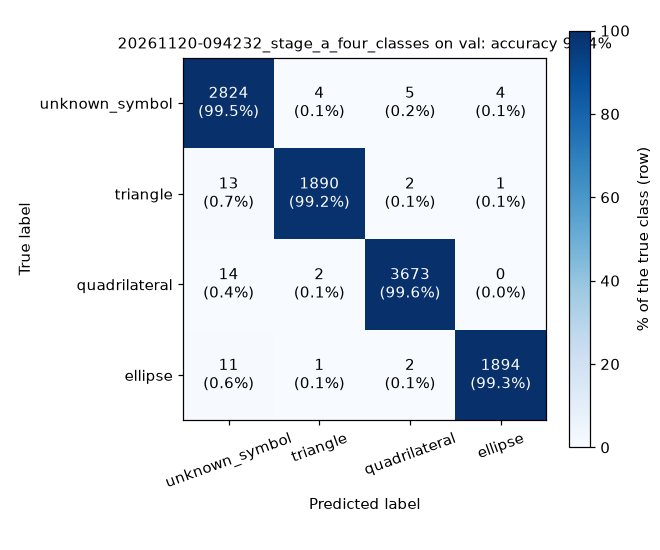
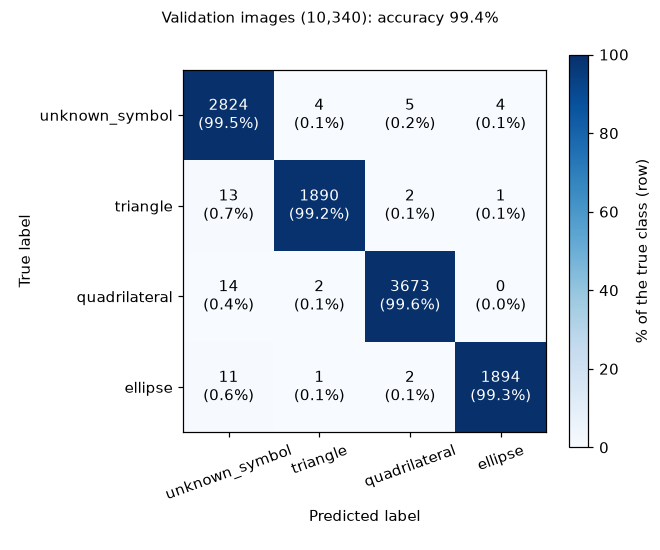
README: training charts from TensorBoard, plus two plot layout fixes
Adds the reward convergence graph, loss/accuracy curves, learning curve,
an augmented training batch and the most-confident-mistakes gallery to
the Results section, each with a plain-English explanation. Confusion
matrix title no longer runs into the color bar; learning-curve labels no
longer overlap the lines.

diff --git a/src/symbolcnn/plots.py b/src/symbolcnn/plots.py
@@ -62,7 +62,7 @@ def confusion_matrix_figure(counts: np.ndarray, percents: np.ndarray, classes: l
             color = "white" if percents[row, col] > 60 else "black"   # readable on dark cells
             axis.text(col, row, f"{counts[row, col]}\n({percents[row, col]:.1f}%)",
                       ha="center", va="center", color=color, fontsize=10)
-    axis.set_title(title, fontsize=10)
+    figure.suptitle(title, fontsize=10)   # spans the whole figure, so it never runs into the color bar
     figure.tight_layout()
     return figure
 
@@ -124,9 +124,10 @@ def learning_curve_figure(table, split: str):
     axis.plot(x, table["accuracy"] * 100, marker="o", label="accuracy %")
     axis.plot(x, table["reward_percent_of_max"], marker="s", label="reward % of max")
     for images, accuracy, fraction in zip(x, table["accuracy"] * 100, table["fraction"]):
-        axis.annotate(f"{fraction:.0%}", (images, accuracy), textcoords="offset points", xytext=(0, 8),
+        axis.annotate(f"{fraction:.0%}", (images, accuracy), textcoords="offset points", xytext=(0, -15),
                       ha="center", fontsize=8)
     axis.axhline(90, linestyle="--", color="gray", label="90% target")
+    axis.set_ylim(top=min(100.5, max(table["accuracy"].max() * 100, table["reward_percent_of_max"].max()) + 0.6))
     axis.set_xscale("log")      # 10% -> 100% is a 10x jump, so a log scale spaces the points evenly
     axis.set_xlabel("Training images (log scale)")
     axis.set_ylabel("%")

diff --git a/README.md b/README.md
@@ -30,6 +30,30 @@ It is "Step 2" of a two-step idea: Step 1 finds a mark, Step 2 (this CNN) names 
 
 Left to right: the confusion matrix on validation images; the phone app reading a hand-drawn triangle; and a current weakness. A real round object (a bottle bottom held in a hand) comes out as **unknown**, because training so far used only drawings and silhouettes. These numbers are on public drawings. The honest **test** score comes from our own photos, which we're collecting next (Stage B). More plots: [`results/lesson36/`](results/lesson36/).
 
+### Training charts
+
+The same charts TensorBoard shows live during training (`tensorboard --logdir runs`), saved as pictures.
+
+**Reward convergence.** The average reward per validation image after each epoch (one full pass over the training images), scored with our reward rubric. The dashed line is the best possible score. The dotted line marks where the whole network starts learning ("finetune"); before that, only the new final layer learns. It climbs quickly, then levels off just under the maximum.
+
+<img src="results/lesson36/reward_convergence.png" alt="Reward convergence graph" width="620">
+
+**Loss and accuracy, training vs validation.** Loss measures how wrong the guesses are (lower is better). The training and validation lines stay close together, so the model is learning general shapes rather than memorizing its training images ("overfitting"). Validation scores slightly higher than training because training images are deliberately distorted (below), which makes them harder.
+
+<img src="results/lesson36/training_curves.png" alt="Loss and accuracy per epoch" width="820">
+
+**Learning curve.** Accuracy and reward when training on 10%, 25%, 50% and 100% of the training images. Every size clears the 90% target; past 50%, more drawings of the same kind barely help.
+
+<img src="results/lesson36/learning_curve_val.png" alt="Learning curve" width="620">
+
+**What the model sees.** One real training batch. Each image is randomly rotated, tilted, blurred, given noise, made thicker or thinner, or partly covered by colored blocks ("augmentation"), so the model copes with messy real photos.
+
+<img src="results/lesson36/what_the_model_sees.jpg" alt="A training batch after augmentation" width="820">
+
+**Most confident mistakes.** The validation images the model got wrong while being most sure of itself. Many are bad labels in the public data rather than real model failures: a single line labeled "quadrilateral," a scribbled word labeled "ellipse." Most of the rest come out as "unknown," the safe kind of mistake.
+
+<img src="results/lesson36/error_gallery_val.jpg" alt="Most confident mistakes on validation images" width="820">
+
 ## Setup
 
 You need Python **3.11 or 3.12** and `git`. PyTorch is installed **separately** from `requirements.txt` because the right build depends on whether the computer has an NVIDIA GPU. Data and trained models are **not** in git: the scripts below download and build them.
